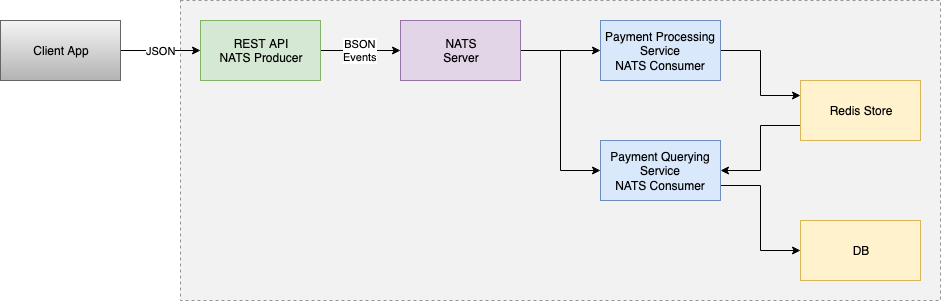
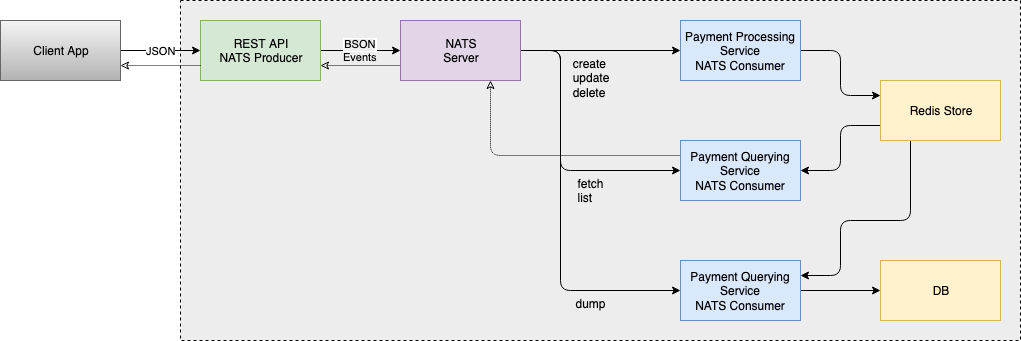
Add dump service and update architecture diagram

diff --git a/paymentdumpservice/command/service.go b/paymentdumpservice/command/service.go
@@ -1,0 +1,58 @@
+// Copyright © 2019 Xavier Basty <xbasty@gmail.com>
+//
+// Licensed under the Apache License, Version 2.0 (the "License");
+// you may not use this file except in compliance with the License.
+// You may obtain a copy of the License at
+//
+//     http://www.apache.org/licenses/LICENSE-2.0
+//
+// Unless required by applicable law or agreed to in writing, software
+// distributed under the License is distributed on an "AS IS" BASIS,
+// WITHOUT WARRANTIES OR CONDITIONS OF ANY KIND, either express or implied.
+// See the License for the specific language governing permissions and
+// limitations under the License.
+
+package command
+
+import (
+	"github.com/apex/log"
+	"github.com/nats-io/nats.go"
+	"github.com/spf13/cobra"
+	"github.com/xav/f3/models"
+	"github.com/xav/f3/service"
+)
+
+type Start struct {
+}
+
+var config = service.Config{}
+
+// Init returns the runnable cobra command.
+func (c *Start) Init() *cobra.Command {
+	cmd := &cobra.Command{
+		Use:   "start",
+		Short: "Start the payment dump service",
+		Run:   c.start,
+	}
+
+	cmd.PersistentFlags().StringVarP(&config.RedisURL, "redis-url", "r", "redis://localhost:6379", "Redis server URL.")
+	cmd.PersistentFlags().StringVarP(&config.NatsURL, "nats-url", "n", nats.DefaultURL, "The NATS server URLs (separated by comma).")
+	cmd.PersistentFlags().StringVarP(&config.NatsUserCreds, "nats-creds", "c", "", "NATS User Credentials File.")
+	cmd.PersistentFlags().StringVarP(&config.NatsKeyFile, "nats-nkey", "k", "", "NATS NKey Seed File.")
+
+	return cmd
+}
+
+func (c *Start) start(cmd *cobra.Command, args []string) {
+	handlers := map[models.EventType]service.MsgHandler{
+		models.DumpPaymentEvent: HandleDumpPayment,
+	}
+	s := service.NewService("f3 payment dumping", handlers)
+	if err := s.Start(&config); err != nil {
+		log.WithError(err).Error("failed to start service")
+	}
+}
+
+func HandleDumpPayment(s *service.Service, msg *nats.Msg) error {
+	return nil
+}

diff --git a/paymentdumpservice/command/service_test.go b/paymentdumpservice/command/service_test.go
@@ -15,21 +15,31 @@
 package command
 
 import (
-	"os"
+	"testing"
 
-	"github.com/spf13/cobra"
+	"github.com/rafaeljusto/redigomock"
+	"github.com/smartystreets/gunit"
+	"github.com/xav/f3/f3nats/mocks"
+	"github.com/xav/f3/service"
 )
 
-var rootCmd = &cobra.Command{
-	Use:   "f3query",
-	Short: "f3 payment query service",
+func TestPaymentServiceFixture(t *testing.T) {
+	gunit.Run(new(PaymentServiceFixture), t)
 }
 
-func Execute() {
-	serverCmd := &Start{}
-	rootCmd.AddCommand(serverCmd.Init())
-
-	if err := rootCmd.Execute(); err != nil {
-		os.Exit(1)
-	}
+type PaymentServiceFixture struct {
+	*gunit.Fixture
+	nats    *mocks.NatsConn
+	redis   *redigomock.Conn
+	service *service.Service
 }
+
+func (f *PaymentServiceFixture) Setup() {
+	f.nats = &mocks.NatsConn{}
+	f.redis = redigomock.NewConn()
+	f.service = service.NewService("test client")
+	f.service.Nats = f.nats
+	f.service.Redis = f.redis
+}
+
+////////////////////////////////////////

diff --git a/paymentdumpservice/main.go b/paymentdumpservice/main.go
@@ -12,24 +12,18 @@
 // See the License for the specific language governing permissions and
 // limitations under the License.
 
-package command
+package main
 
 import (
 	"os"
 
-	"github.com/spf13/cobra"
+	"github.com/apex/log"
+	"github.com/apex/log/handlers/cli"
+
+	"github.com/xav/f3/paymentqueryservice/command"
 )
 
-var rootCmd = &cobra.Command{
-	Use:   "f3query",
-	Short: "f3 payment query service",
-}
-
-func Execute() {
-	serverCmd := &Start{}
-	rootCmd.AddCommand(serverCmd.Init())
-
-	if err := rootCmd.Execute(); err != nil {
-		os.Exit(1)
-	}
+func main() {
+	log.SetHandler(cli.New(os.Stdout))
+	command.Execute()
 }

diff --git a/paymentdumpservice/command/root.go b/paymentdumpservice/command/root.go
@@ -21,8 +21,8 @@ import (
 )
 
 var rootCmd = &cobra.Command{
-	Use:   "f3query",
-	Short: "f3 payment query service",
+	Use:   "f3dump",
+	Short: "f3 payment dump service",
 }
 
 func Execute() {

diff --git a/paymentprocessingservice/command/root.go b/paymentprocessingservice/command/root.go
@@ -21,7 +21,7 @@ import (
 )
 
 var rootCmd = &cobra.Command{
-	Use:   "f3pps",
+	Use:   "f3processing",
 	Short: "f3 payment processing service",
 }
 
